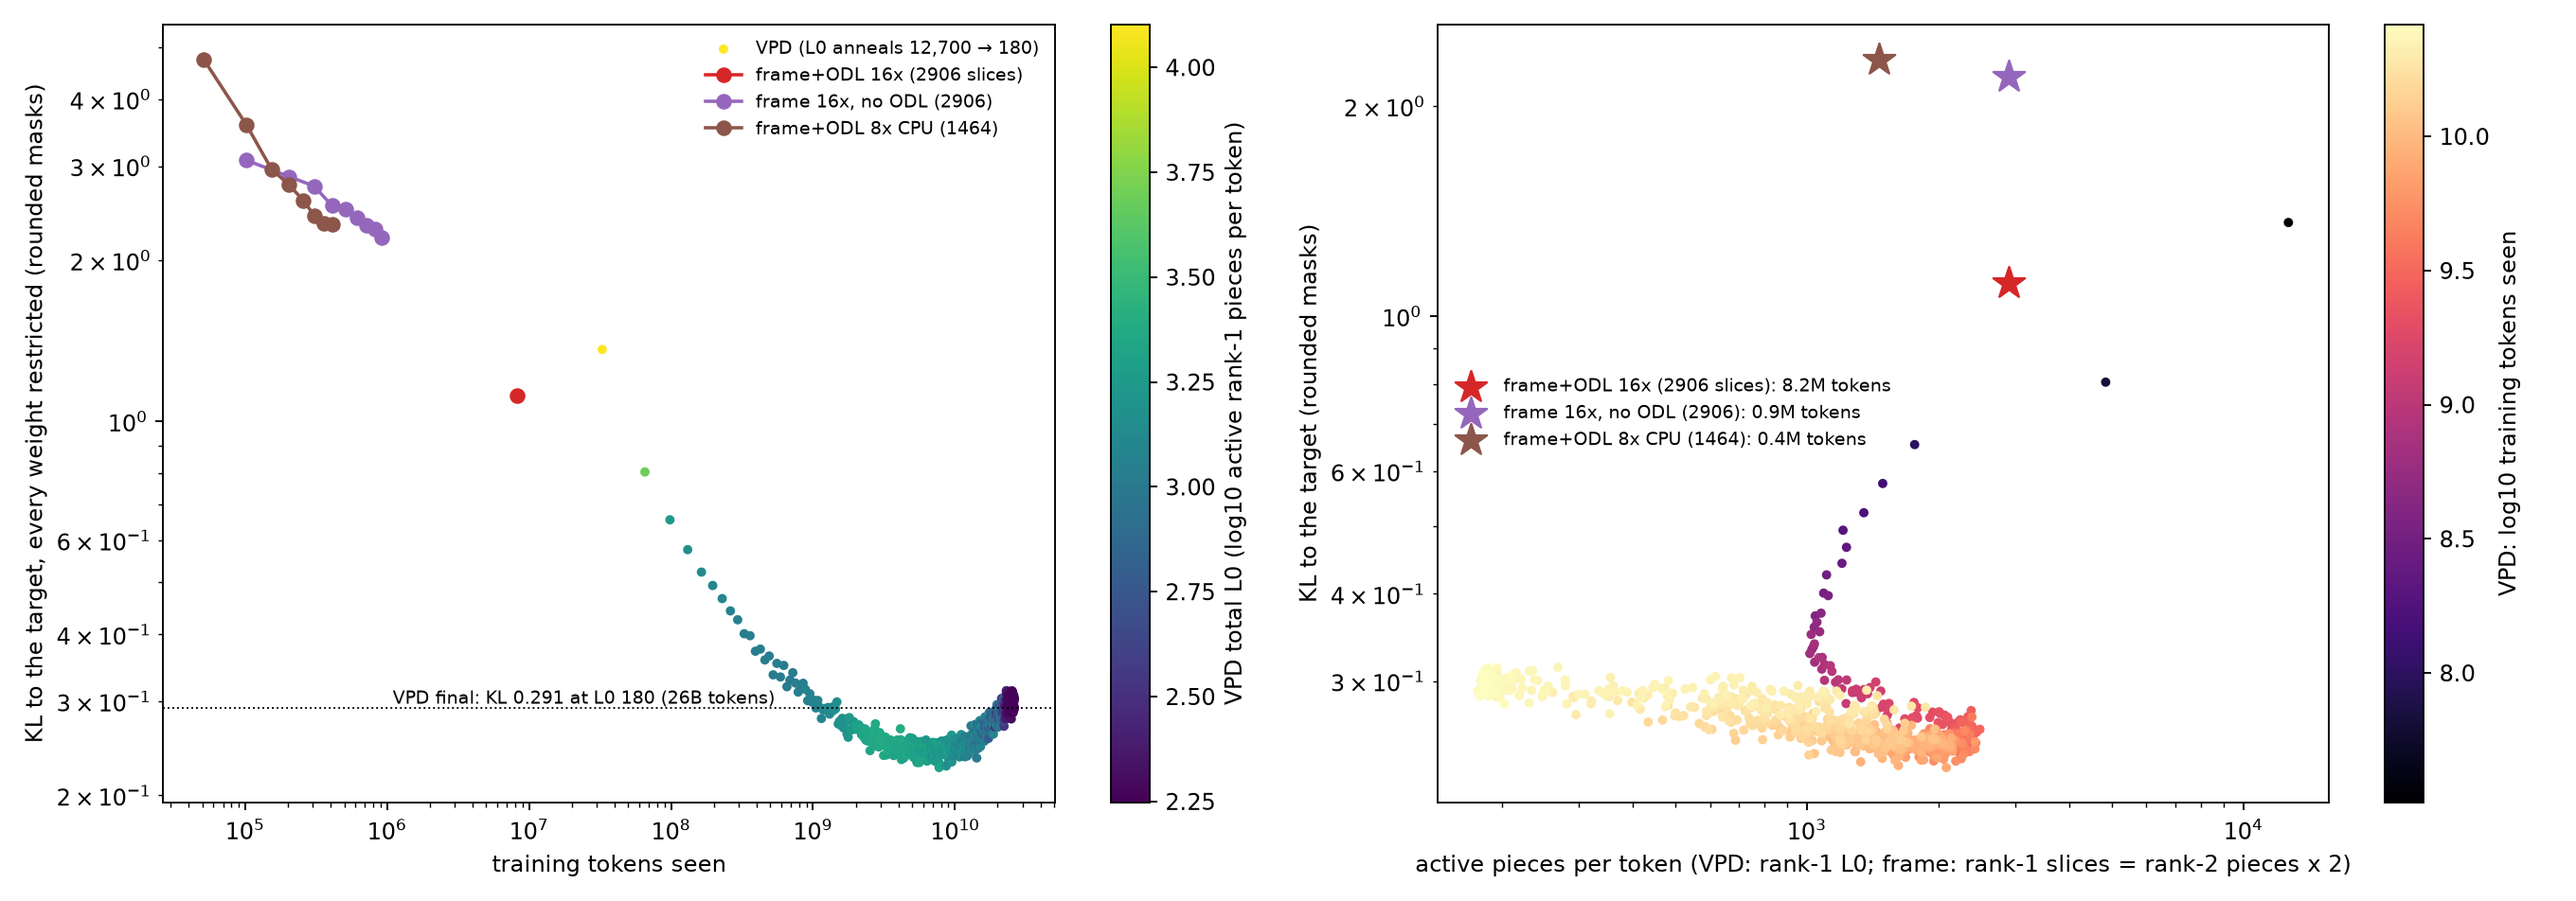
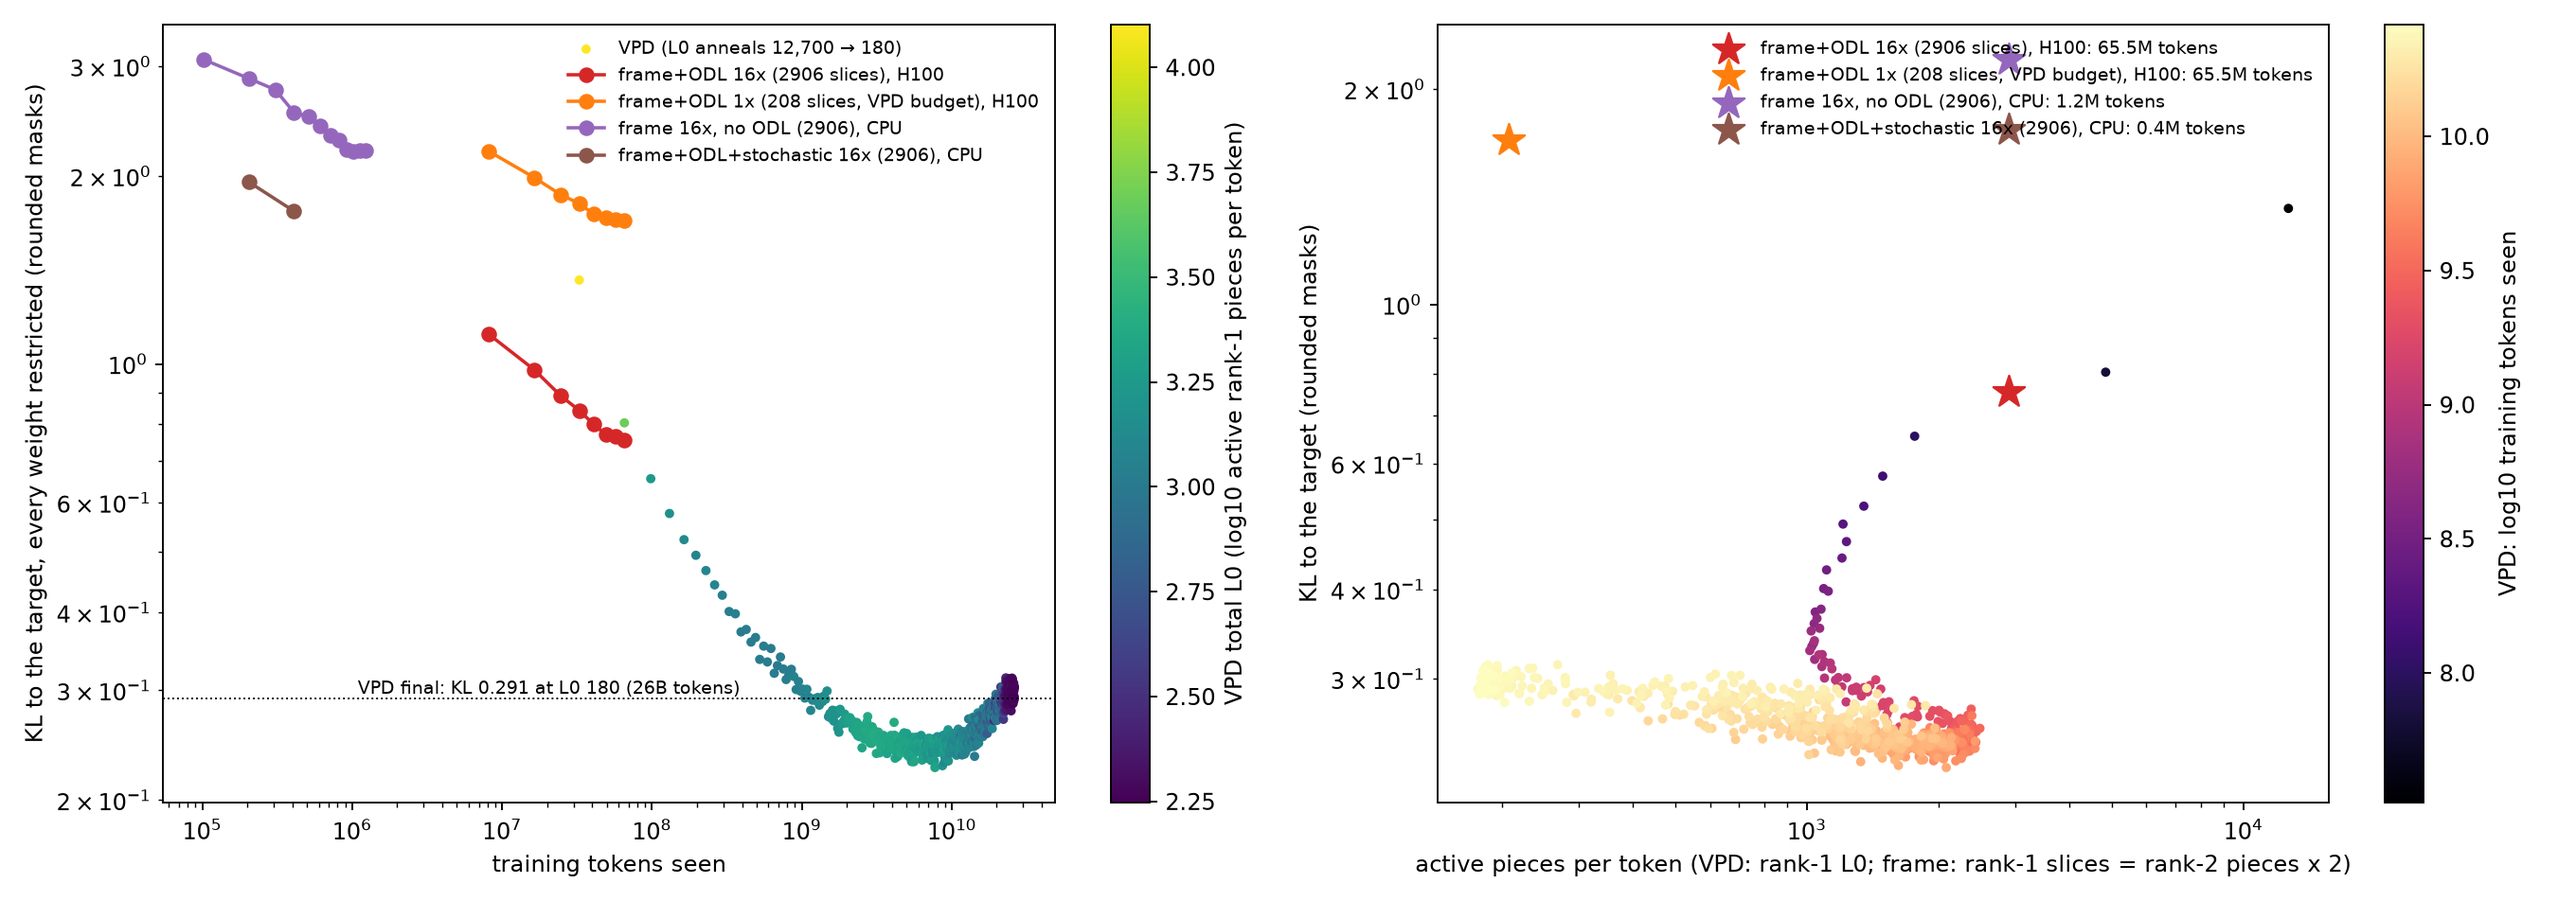
Final matched-compute figure: frame decomposition against VPD's public curve on its own 4-layer target (#2951)
Claude-Session: https://claude.ai/code/session_01KUJccLkbF3UxFyfqoUkcK4

diff --git a/bench/mpd_vpd4l_frame_pd_v2_2951.py b/bench/mpd_vpd4l_frame_pd_v2_2951.py
@@ -177,6 +177,7 @@ def main():
                         help="biorth: an invertible V on GL(d), pieces b_k a_k^T with B = V^{-T}; exact for every V")
     parser.add_argument("--adaptive", action="store_true",
                         help="batch-level top-(n L) selection per matrix: same mean pieces per token, adaptive per token")
+    parser.add_argument("--resume-frames", default="", help="load frames saved by an earlier run (skips ODL)")
     parser.add_argument("--tf32-train", action="store_true",
                         help="TF32 matmuls in training steps only; every evaluation stays full fp32")
     parser.add_argument("--odl-iters", type=int, default=0)
@@ -286,7 +287,12 @@ def main():
         model.edit = None
         return (ref.exp() * (ref - lp)).sum(-1).mean()
 
-    if args.odl_iters > 0:
+    if args.resume_frames:
+        saved = torch.load(args.resume_frames, map_location=dev)
+        for key in frames:
+            frames[key] = saved[f"{key[0]}:{key[1]}"].to(dev)
+        print(f"[frame4l] resumed frames from {args.resume_frames}", flush=True)
+    if args.odl_iters > 0 and not args.resume_frames:
         # Sequential orthogonal dictionary learning: in network order, on the stream as it arrives with every
         # upstream matrix already restricted, alternate (a) each row coded by its top-L atom groups of the current
         # orthogonal frame and (b) the frame updated by orthogonal Procrustes, X = polar(S^T D), which minimizes
